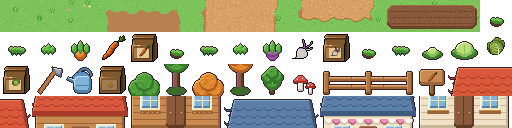
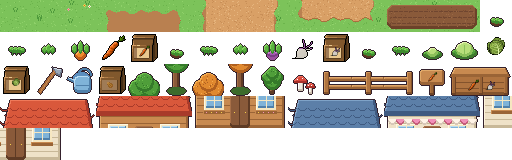
Add shipping bin next to the shop; pays out overnight
Claude-Session: https://claude.ai/code/session_015p9zHqe761HPZ9r97hGy59

diff --git a/src/scenes.js b/src/scenes.js
@@ -89,10 +89,11 @@ export class World {
     this.gold = 200;
     this.seeds = { carrot: 5, turnip: 0, cabbage: 0 };
     this.shop = false;
+    this.shipped = 0; // gold owed for crops in the shipping bin, paid overnight
     this.open = false; this.pick = -1;
-    this.clock.on('overnight', () => this.field.overnight());
+    this.clock.on('overnight', () => { this.field.overnight(); this.paid = this.shipped; this.gold += this.shipped; this.shipped = 0; });
     this.toast = '';
-    this.clock.on('newDay', ({ passedOut }) => this.say(passedOut ? 'You passed out! Half energy today.' : 'Good morning!'));
+    this.clock.on('newDay', ({ passedOut }) => this.say((passedOut ? 'You passed out! Half energy today.' : 'Good morning!') + (this.paid ? ` Shipping paid ${this.paid}g.` : '')));
   }
   say(msg) { this.toast = msg; this.toastT = 3; }
 
@@ -149,6 +150,7 @@ export class World {
     const key = this.facing(), f = this.field, held = this.inv.held?.id;
     if (key === this.map.door) return this.clock.sleep();
     if (key === this.map.shop) { this.shop = true; return; }
+    if (this.map.bin.includes(key)) return this.ship(held);
     if (!f.has(key)) return held && !TOOLS[held] && this.say(`That's a ${CROPS[held].name}.`);
     const p = f.get(key), tired = () => this.say('Too tired. Sleep at your front door.');
     if (f.isRipe(p)) {
@@ -180,6 +182,16 @@ export class World {
   buttons() {
     const g = this.g, r = 22;
     return { act: [g.w - r - 6, g.h - r - 6, r, r], bag: [g.w - 2 * r - 12, g.h - r - 6, r, r] };
+  }
+
+  // Shipping bin: ships the held crop stack, or every crop in the bag when holding a tool. Paid overnight.
+  ship(held) {
+    const ids = CROPS[held] ? [held] : SEEDS;
+    let n = 0, value = 0;
+    for (const id of ids) { const k = this.inv.take(id); n += k; value += k * CROPS[id].price; }
+    if (!n) return this.say('Nothing to ship. Harvest some crops first.');
+    this.shipped += value;
+    this.say(`Shipped ${n} crop${n > 1 ? 's' : ''} for ${value}g. Paid tomorrow morning.`);
   }
 
   // Seed shop: buy seeds, sell crops.
@@ -253,7 +265,7 @@ export class World {
       }
     // Highlight the tile the player is facing.
     const [fx, fy] = this.facing().split(',').map(Number);
-    if (this.field.has(`${fx},${fy}`) || [this.map.door, this.map.shop].includes(`${fx},${fy}`)) {
+    if (this.field.has(`${fx},${fy}`) || [this.map.door, this.map.shop, ...this.map.bin].includes(`${fx},${fy}`)) {
       c.strokeStyle = '#fff8e8aa'; c.lineWidth = 1;
       c.strokeRect(fx * TILE - cx + 0.5, fy * TILE - cy + 0.5, 15, 15);
     }

diff --git a/src/art-index.js b/src/art-index.js
@@ -1,2 +1,2 @@
 // Generated by tools/make_art.py: tile names -> index in assets/art/world.png (16 columns of 32x32).
-export const A = {"grass0": 0, "grass1": 1, "grass2": 2, "path0": 3, "path1": 4, "path2": 5, "path3": 6, "path4": 7, "path5": 8, "path6": 9, "path7": 10, "path8": 11, "soil0": 12, "soil1": 13, "soil2": 14, "carrot0": 15, "carrot1": 16, "carrot2": 17, "carrot3": 18, "carrot_item": 19, "carrot_packet": 20, "turnip0": 21, "turnip1": 22, "turnip2": 23, "turnip3": 24, "turnip_item": 25, "turnip_packet": 26, "cabbage0": 27, "cabbage1": 28, "cabbage2": 29, "cabbage3": 30, "cabbage_item": 31, "cabbage_packet": 32, "hoe": 33, "can": 34, "bag": 35, "tree_green_0": 36, "tree_green_1": 37, "tree_orange_0": 38, "tree_orange_1": 39, "tree": 40, "mushrooms": 41, "fence0": 42, "fence1": 43, "fence2": 44, "sign": 45, "house_0": 46, "house_1": 47, "house_2": 48, "house_3": 49, "house_4": 50, "house_5": 51, "house_6": 52, "house_7": 53, "house_8": 54, "shop_0": 55, "shop_1": 56, "shop_2": 57, "shop_3": 58, "shop_4": 59, "shop_5": 60, "shop_6": 61, "shop_7": 62, "shop_8": 63};
+export const A = {"grass0": 0, "grass1": 1, "grass2": 2, "path0": 3, "path1": 4, "path2": 5, "path3": 6, "path4": 7, "path5": 8, "path6": 9, "path7": 10, "path8": 11, "soil0": 12, "soil1": 13, "soil2": 14, "carrot0": 15, "carrot1": 16, "carrot2": 17, "carrot3": 18, "carrot_item": 19, "carrot_packet": 20, "turnip0": 21, "turnip1": 22, "turnip2": 23, "turnip3": 24, "turnip_item": 25, "turnip_packet": 26, "cabbage0": 27, "cabbage1": 28, "cabbage2": 29, "cabbage3": 30, "cabbage_item": 31, "cabbage_packet": 32, "hoe": 33, "can": 34, "bag": 35, "tree_green_0": 36, "tree_green_1": 37, "tree_orange_0": 38, "tree_orange_1": 39, "tree": 40, "mushrooms": 41, "fence0": 42, "fence1": 43, "fence2": 44, "sign": 45, "bin_0": 46, "bin_1": 47, "house_0": 48, "house_1": 49, "house_2": 50, "house_3": 51, "house_4": 52, "house_5": 53, "house_6": 54, "house_7": 55, "house_8": 56, "shop_0": 57, "shop_1": 58, "shop_2": 59, "shop_3": 60, "shop_4": 61, "shop_5": 62, "shop_6": 63, "shop_7": 64, "shop_8": 65};

diff --git a/src/farm-map.js b/src/farm-map.js
@@ -44,6 +44,7 @@ export function buildFarm(seed = 7) {
   // Seed shop next to the house, with a sign.
   place(21, 10, [['shop_0', 'shop_1', 'shop_2'], ['shop_3', 'shop_4', 'shop_5'], ['shop_6', 'shop_7', 'shop_8']]);
   place(24, 12, [['sign']]);
+  place(25, 12, [['bin_0', 'bin_1']]); // shipping bin
   const plots = [];
   for (let y = 20; y < 26; y += 2) for (let x = 6; x < 16; x++) {
     plots.push(`${x},${y}`);
@@ -62,5 +63,5 @@ export function buildFarm(seed = 7) {
     if (free(x - 1, y - 1, 3, 3)) place(x, y, [[tree ? 'tree' : 'mushrooms']], tree ? 1 : 0);
   }
 
-  return { W, H, ground, solid, objects, plots, door: '18,12', shop: '22,12', spawn: { x: 18 * TILE, y: 13 * TILE } };
+  return { W, H, ground, solid, objects, plots, door: '18,12', shop: '22,12', bin: ['25,12', '26,12'], spawn: { x: 18 * TILE, y: 13 * TILE } };
 }

diff --git a/tools/make_art.py b/tools/make_art.py
@@ -181,6 +181,16 @@ def fence(part):
     for x in posts + ([16] if part == 1 else []):
         shape(im, lambda d, x=x: d.rectangle([x - 2, 8, x + 2, 29]), '#b07440', '#d0965a', '#83532c', 1)
     return outline(im)
+def bin_():  # 64x32 wooden shipping bin with a lid, sliced into two tiles
+    im = new(2 * S, S)
+    shape(im, lambda d: d.rectangle([4, 12, 59, 30]), '#b07440', '#d0965a', '#83532c')
+    d = ImageDraw.Draw(im)
+    for y in (18, 24): d.line([(5, y), (58, y)], C('#83532c'))
+    for x in (4, 31, 56): shape(im, lambda d, x=x: d.rectangle([x, 12, x + 3, 30]), '#9a6436', '#b07440', '#6f4426', 1)
+    shape(im, lambda d: d.polygon([(2, 12), (6, 4), (57, 4), (61, 12)]), '#c88a50', '#e0a96a', '#9a6436')
+    im.alpha_composite(ITEMS['carrot'].resize((14, 14), Image.BOX), (18, 14))
+    im.alpha_composite(ITEMS['turnip'].resize((14, 14), Image.BOX), (36, 14))
+    return outline(im)
 def sign():
     im = new()
     shape(im, lambda d: d.rectangle([14, 18, 17, 30]), '#9a6436', '#b07440', '#6f4426', 1)
@@ -303,7 +313,7 @@ add('hoe', hoe()); add('can', can()); add('bag', cell(BAGS, 0, 32))
 add('tree_green', tall_tree(('#4f9e3a', '#6fc04f', '#357a2a'))); add('tree_orange', tall_tree(('#e0892f', '#f5ad4f', '#b0601f')))
 add('tree', small_tree()); add('mushrooms', mushrooms())
 for k in range(3): add(f'fence{k}', fence(k))
-add('sign', sign())
+add('sign', sign()); add('bin', bin_())
 add('house', building('#d9583b', '#f07a5a', '#a83a2a', '#c88a50', '#e0a96a', '#9a6436'))
 add('shop', building('#5c7fa8', '#7fa3c8', '#3f5a80', '#efe2c8', '#fff4dc', '#c8b898', awning=True))
 COLS = 16

diff --git a/README.md b/README.md
@@ -21,6 +21,7 @@ Then open the printed address. Works on PC (keyboard), phone and tablet (touch).
 - Change seeds: Q, or tap the seed bag slot again
 - Bag: I, or tap **Bag**. Tap two slots (bag or hotbar 4–8) to swap them
 - Seed shop: face the shop door (next to the house) and press Use. 1–3 buy seeds, S sells all crops
+- Shipping bin (next to the shop): press Use to ship the crop you hold, or all crops if holding a tool. Paid overnight
 - Back to menu: Escape
 
 ## Tests
